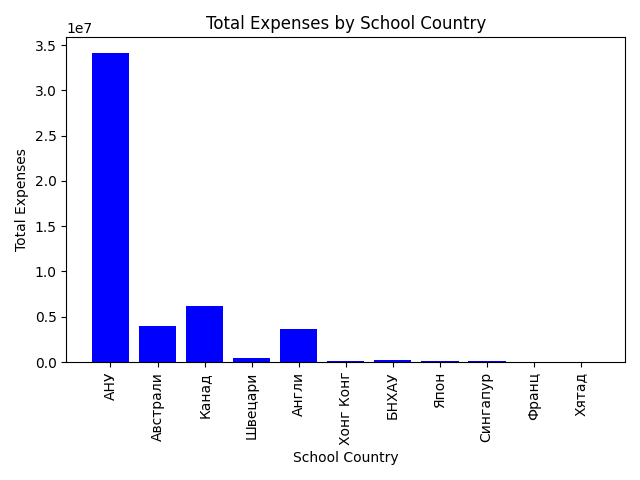
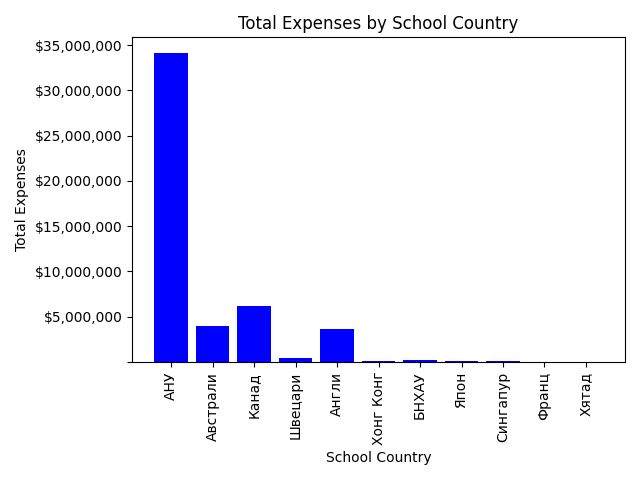
fix y axis format

diff --git a/main.py b/main.py
@@ -1,5 +1,7 @@
 import polars as pl
 import matplotlib.pyplot as plt
+import matplotlib.ticker as ticker
+
 import locale
 
 
@@ -29,11 +31,23 @@ def create_graph(df):
     )
     x = country_expenses["School Country"]
     y = country_expenses["Total Expenses"]
-    plt.bar(x, y, color="blue")
-    plt.xlabel("School Country")
-    plt.ylabel("Total Expenses")
-    plt.title("Total Expenses by School Country")
-    plt.xticks(rotation=90)
+
+    fig, ax = plt.subplots()
+    ax.bar(x, y, color="blue")
+    ax.set_xlabel("School Country")
+    ax.set_ylabel("Total Expenses")
+    ax.set_title("Total Expenses by School Country")
+    print(fig)
+
+    def currency_formatter(x, pos):
+        if pos:
+            return f"${int(x):,}"
+
+    ax.yaxis.set_major_formatter(ticker.FuncFormatter(currency_formatter))
+
+    ax.set_xticks(range(len(x)))
+    ax.set_xticklabels(x, rotation=90)
+
     plt.tight_layout()
     plt.savefig("total_expenses_by_country.png")
 
